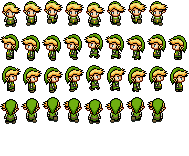
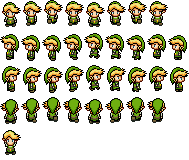
Chests!
• Added chest component
• Chest component is extensible to make chests facing in 4 directions;
currently only 1 facing is available however.
• Chests can give a # of rupees
• Chests can add an item to inventory
• Chests have a noise they make and a notification they display
• The item in the chest is held aloft
• New sprite frame for getting a new item
• Added a couple test chests to the world

(Note: chests reset per screen, just as bushes and monsters. This will
NOT be final functionality.)

diff --git a/includes/general.js b/includes/general.js
@@ -2,7 +2,7 @@
 /* GLOBAL VARS */
 var current_scene; var scene_name; var tile_theme;
 var facing = 'down'; var dir = {up: false, down: false, left: false, right: false};
-var in_inventory = false; var dialog; var interlocutor = false; var talking = false; var NPCname;
+var in_inventory = false; var dialog; var interlocutor = false; var talking = false; var itemGet = false; var NPCname;
 var potent = true; var swinging = false; var falling = false; var current_hole; 
 var pushedblock; var pushing = 0; var speed = 4;
 var monsters_on_screen = 0; var unlock_by_killing = false;
@@ -13,11 +13,11 @@ var max_hp = 66; var current_hp = 66;
 /* INVENTORY VARS */
 var coins = 0; var bombs = 0; var keys = 0;
 var weapon = 'Wooden Sword'; 
-var weapons_carried = ['Wooden Sword', 'Longspear', 'Longspear', 'Longspear', 'Longspear', 'Longspear'];
+var weapons_carried = ['Wooden Sword'];
 var secondary = ''; 
-var secondaries_carried = ['Boomerang', 'Shield', 'Boomerang', 'Boomerang'];
+var secondaries_carried = ['Boomerang'];
 var armor = ''; 
-var outfits_carried = ['Wedding Dress'];
+var outfits_carried = [];
 var accessory = ''; 
 var accessories_carried = ['Blue Ring', 'Blue Ring'];
 
@@ -27,7 +27,8 @@ var item_description = {
     "Boomerang": "Stun enemies or nab items at range!",
     "Shield": "Blocks attacks aimed at your front.",
     "Wedding Dress": "You don't like it, but it's the only outfit you've got.",
-    "Blue Ring": "This magical band halves incoming damage."
+    "Blue Ring": "This magical band halves incoming damage.", 
+    "Rupees": "Don't spend them all at once, okay?"
     };
 
 // ~~~~~
@@ -85,7 +86,7 @@ var sidebar_base = "<div id='life'><div id='life-gray' class='line1'></div><div 
             "<fieldset id='armor' class='margin-right'><legend>Armor<legend><span class='slot'></span></fieldset>" +
             "<fieldset id='accessory'><legend>Misc<legend><span class='slot'></span></fieldset> " +
             "<div id='meta'>" +
-            "<img src='assets/coin-single.png' class='coin' /><span id='coins'></span>" +
+            "<img src='assets/coin-single.png' class='coin' /><span id='coins'>0</span>" +
             "</div>" +
             "<div id='minimap'></div>";
 
@@ -246,9 +247,9 @@ function monster(rawr, x, y, scene) {
     
 // places props and obstacles
 function prop(type, x, y, scene) {
-    Crafty.e(type).at(x, y);
     if(typeof(scene)==='undefined') scene = current_scene;
     scene.occupied[x][y] = true;
+    return Crafty.e(type).at(x, y);
     }
     
 // fills a rectangle with a certain prop
@@ -294,6 +295,10 @@ function interact(e) {
         else if(talking) {
             talking = false;
             dialog.destroy(); 
+            if(itemGet == true) {
+                Crafty('player').sprite(0,3); itemGet = false;
+                Crafty('Reward').destroy();
+                }
             resumeAll();
             Crafty.bind('KeyDown', (inventory));
             }
@@ -325,7 +330,58 @@ function torchBushes() {//console.log(Crafty('Bush'));
     dialogue('The crazy dude burned all the bushes.');
     }
 
+// opens chests!
+function openChest() {
+    if(facing==interlocutor.direction) {
+        var chest = interlocutor;       // get the chest's object
+        interlocutor = false;           // clear interlocutor to prevent spammability
+        chest.removeComponent('poi').addComponent('chest_open_'+chest.direction);    // prevent further opening || chest.direction is for extensibility
+        if(chest.type == "weapon") {
+            weapons_carried.push(chest.contents);
+            chestNotice(chest.contents, "weapon");
+            return;
+            }
+        if(chest.type == "secondary") {
+            secondaries_carried.push(chest.contents);
+            chestNotice(chest.contents, "secondary");
+            return;
+            }
+        if(chest.type == "armor") {
+            outfits_carried.push(chest.contents);
+            chestNotice(chest.contents, "armor");
+            return;
+            }
+        if(chest.type == "misc") {
+            accessories_carried.push(chest.contents);
+            chestNotice(chest.contents, "misc");
+            return;
+            }
+        if(chest.type == "rupee") {
+            getCoins(chest.value);
+            chestNotice(chest.contents, "rupee", chest.value);
+            return;
+            }
+        console.log(chest.contents);
+        return;
+        }
+    return false;
+    }
 
+function chestNotice(contents, type, value) {
+    Crafty.audio.play('chest');     // plays chest sound
+    Crafty('player').sprite(0, 4).attr({w: 36, h: 40}).collision([4,4], [32, 4], [32,36], [4,36]);  // item get pose
+    // create notificaion text
+    var chestNotification = "You found ";
+    if(value) {chestNotification += value+' ';} else {chestNotification += "the ";}
+    chestNotification += contents+"! "+item_description[contents];
+    if(type=="weapon"||type=="secondary"||type=="armor"||type=="misc") {
+        chestNotification += " <br /><br />You can equip this item from your inventory by pressing TAB.";
+        }
+    itemGet = true;                     // allows the dialogue closing trigger to work best
+    dialogue(chestNotification);        // creates notification
+    Crafty.e('Reward').attr({x: Crafty('player').x-11, y: Crafty('player').y-58});  // displays reward shining above head
+    $(".Reward").append('<img src="assets/inventory/'+contents+'-inv.png" />');
+    }
 
 // ~~~~~
 // ~~~~~

diff --git a/includes/scenes.js b/includes/scenes.js
@@ -13,6 +13,8 @@ Crafty.scene('Game', function() {
     this.occupied[5][5] = true; // occupy player's initial position
  
     tile('Grass', 0, 0); tile('Grass', 1, 0); tile('Grass', 2, 0); tile('Grass', 3, 0); tile('Grass', 4, 0); tile('Grass', 5, 0); tile('Grass', 6, 0); tile('Grass', 7, 0); tile('Grass', 8, 0); tile('Grass', 9, 0); tile('Grass', 10, 0); tile('Grass', 11, 0); tile('Grass', 12, 0); tile('Grass', 0, 1); tile('Grass', 1, 1); tile('Grass', 2, 1); tile('Grass', 3, 1); tile('Grass', 4, 1); prop('Bush', 4, 1); tile('Grass', 5, 1); tile('Grass', 6, 1); tile('Grass', 7, 1); tile('Grass', 8, 1); prop('Bush', 8, 1); tile('Grass', 9, 1); tile('Grass', 10, 1); tile('Grass', 11, 1); tile('Grass', 12, 1); tile('Grass', 0, 2); tile('Grass', 1, 2); tile('Grass', 2, 2); tile('Grass', 3, 2); tile('Grass', 4, 2); tile('Grass', 5, 2); tile('Grass', 6, 2); prop('Bush', 6, 2); tile('Grass', 7, 2); tile('Grass', 8, 2); prop('Bush', 8, 2); tile('Grass', 9, 2); tile('Grass', 10, 2); prop('Bush', 10, 2); tile('Grass', 11, 2); tile('Grass', 12, 2); tile('Grass', 0, 3); tile('Grass', 1, 3); tile('Grass', 2, 3); tile('Grass', 3, 3); tile('Grass', 4, 3); tile('Grass', 5, 3); tile('Grass', 6, 3); prop('Bush', 6, 3); tile('Grass', 7, 3); tile('Grass', 8, 3); tile('Grass', 9, 3); tile('Grass', 10, 3); prop('Bush', 10, 3); tile('Grass', 11, 3); tile('Grass', 12, 3); tile('Grass', 0, 4); tile('Grass', 1, 4); tile('Grass', 2, 4); tile('Grass', 3, 4); tile('Grass', 4, 4); tile('Grass', 5, 4); tile('Grass', 6, 4); tile('Grass', 7, 4); prop('Bush', 7, 4); tile('Grass', 8, 4); prop('Bush', 8, 4); tile('Grass', 9, 4); prop('Bush', 9, 4); tile('Grass', 10, 4); prop('Bush', 10, 4); tile('Grass', 11, 4); tile('Grass', 12, 4); tile('Grass', 0, 5); tile('Grass', 1, 5); tile('Grass', 2, 5); tile('Grass', 3, 5); tile('Grass', 4, 5); tile('Grass', 5, 5); tile('Grass', 6, 5); tile('Grass', 7, 5); prop('Bush', 7, 5); tile('Grass', 8, 5); tile('Grass', 9, 5); tile('Grass', 10, 5); tile('Grass', 11, 5); tile('Grass', 12, 5); tile('Grass', 0, 6); tile('Grass', 1, 6); tile('Grass', 2, 6); tile('Grass', 3, 6); tile('Grass', 4, 6); tile('Grass', 5, 6); tile('Grass', 6, 6); tile('Grass', 7, 6); prop('Bush', 7, 6); tile('Grass', 8, 6); tile('Grass', 9, 6); prop('Bush', 9, 6); tile('Grass', 10, 6); prop('Bush', 10, 6); tile('Grass', 11, 6); prop('Bush', 11, 6); tile('Grass', 12, 6); tile('Grass', 0, 7); tile('Grass', 1, 7); tile('Grass', 2, 7); tile('Grass', 3, 7); tile('Grass', 4, 7); tile('Grass', 5, 7); tile('Grass', 6, 7); tile('Grass', 7, 7); prop('Bush', 7, 7); tile('Grass', 8, 7); tile('Grass', 9, 7); tile('Grass', 10, 7); tile('Grass', 11, 7); tile('Grass', 12, 7); tile('Grass', 0, 8); tile('Grass', 1, 8); tile('Grass', 2, 8); tile('Grass', 3, 8); tile('Grass', 4, 8); tile('Grass', 5, 8); tile('Grass', 6, 8); tile('Grass', 7, 8); prop('Bush', 7, 8); tile('Grass', 8, 8); prop('Bush', 8, 8); tile('Grass', 9, 8); prop('Bush', 9, 8); tile('Grass', 10, 8); prop('Bush', 10, 8); tile('Grass', 11, 8); tile('Grass', 12, 8); tile('Grass', 0, 9); tile('Grass', 1, 9); prop('Bush', 1, 9); tile('Grass', 2, 9); prop('Bush', 2, 9); tile('Grass', 3, 9); prop('Bush', 3, 9); tile('Grass', 4, 9); tile('Grass', 5, 9); tile('Grass', 6, 9); tile('Grass', 7, 9); prop('Bush', 7, 9); tile('Grass', 8, 9); tile('Grass', 9, 9); tile('Grass', 10, 9); tile('Grass', 11, 9); tile('Grass', 12, 9); tile('Grass', 0, 10); tile('Grass', 1, 10); prop('Bush', 1, 10); prop('Rock', 2, 10); tile('Grass', 3, 10); prop('Bush', 3, 10); tile('Grass', 4, 10); tile('Grass', 5, 10); tile('Grass', 6, 10); tile('Grass', 7, 10); prop('Bush', 7, 10); tile('Grass', 8, 10); tile('Grass', 9, 10); prop('Bush', 9, 10); tile('Grass', 10, 10); prop('Bush', 10, 10); tile('Grass', 11, 10); prop('Bush', 11, 10); tile('Grass', 12, 10); tile('Grass', 0, 11); tile('Grass', 1, 11); prop('Bush', 1, 11); tile('Grass', 2, 11); prop('Bush', 2, 11); tile('Grass', 3, 11); prop('Bush', 3, 11); tile('Grass', 4, 11); tile('Grass', 5, 11); tile('Grass', 6, 11); tile('Grass', 7, 11); prop('Bush', 7, 11); tile('Grass', 8, 11); tile('Grass', 9, 11); tile('Grass', 10, 11); tile('Grass', 11, 11); tile('Grass', 12, 11); tile('Grass', 0, 12); tile('Grass', 1, 12); tile('Grass', 2, 12); tile('Grass', 3, 12); tile('Grass', 4, 12); tile('Grass', 5, 12); tile('Grass', 6, 12); tile('Grass', 7, 12); tile('Grass', 8, 12); tile('Grass', 9, 12); tile('Grass', 10, 12); tile('Grass', 11, 12); tile('Grass', 12, 12);
+    
+    prop('Chest', 3, 4).attr({contents: "Longspear", type: "weapon"});
   
   // OLD MAN
   NPCname = "Old Man";
@@ -53,6 +55,11 @@ Crafty.scene('north1', function() {
  
     edgePop('Tree');
     tile('TreeWalkable', 12, 2);
+    
+    prop('Chest', 1, 1).attr({contents: "Wedding Dress", type: "armor"});
+    prop('Chest', 2, 1).attr({contents: "Shield", type: "secondary"});
+    prop('Chest', 3, 1).attr({contents: "Rupees", value: 50, type: "rupee"});
+    prop('Chest', 4, 1).attr({contents: "Rupees", value: 20, type: "rupee"});
      
 });
 

diff --git a/includes/loading.js b/includes/loading.js
@@ -9,12 +9,18 @@ Crafty.scene('Loading', function(){
         .text('<h3>Loading</h3><div id="bar"><div id="fill"></div></div><div id="loadtext"></div>');
  
     var toLoad = [];
-    toLoad.push('media/opening.ogg', "media/opening.mp3", "media/LOZ_Get_Rupee.mp3", "media/rupee.mp3", "media/secret.mp3", "media/gulp.wav", 'assets/tree-1.png', 'assets/bush-1.png', 'assets/bush-dead.png', 'assets/grass-1.png', 'assets/rock.png', 'assets/character-narrow.png'/*, 'assets/character-hit.png'*/, 'assets/portraits/Old Man.png', 'assets/portraits/Fisherman.png', 'assets/portraits/Groundskeeper.png', 'includes/images/mochaGrunge.png', 'includes/images/lightGrunge.png', 'assets/RPGTiles-40.png', 'assets/cactus.png', 'assets/slimes-5.png', 'assets/slimes-blue.png', 'assets/octorok-40.png', 'assets/octorok-blue.png', 'assets/octorok-gold.png', 'assets/projectile-rock.png', 'assets/projectile-rock-big.png', 'assets/longspear.png', 'assets/wooden-sword.png', 'assets/wooden-sword-2.png', 'assets/hole-1.png', 'assets/heart-container-1.png', 'assets/inventory/Wooden Sword-inv.png', 'assets/inventory/Longspear-inv.png', 'assets/fire.png', 'assets/fire-tile.png', 'assets/coins.png', 'assets/coin-single.png', 'assets/remains.png',
-    'assets/refill-heart.png', 'assets/refill-half.png', 
+    toLoad.push('media/opening.ogg', "media/opening.mp3", 
+    "media/LOZ_Get_Rupee.mp3", "media/rupee.mp3", "media/secret.mp3", "media/gulp.wav", "media/chest.wav", 
     
+    'assets/tree-1.png', 'assets/bush-1.png', 'assets/bush-dead.png', 'assets/grass-1.png', 'assets/rock.png', 'assets/character-narrow.png'/*, 'assets/character-hit.png'*/, 'assets/portraits/Old Man.png', 'assets/portraits/Fisherman.png', 'assets/portraits/Groundskeeper.png', 'includes/images/mochaGrunge.png', 'includes/images/lightGrunge.png', 'assets/RPGTiles-40.png', 'assets/cactus.png', 'assets/slimes-5.png', 'assets/slimes-blue.png', 'assets/octorok-40.png', 'assets/octorok-blue.png', 'assets/octorok-gold.png', 'assets/projectile-rock.png', 'assets/projectile-rock-big.png', 'assets/longspear.png', 'assets/wooden-sword.png', 'assets/wooden-sword-2.png', 'assets/hole-1.png', 'assets/heart-container-1.png',  'assets/fire.png', 'assets/fire-tile.png', 'assets/coins.png', 'assets/coin-single.png', 'assets/remains.png',
+    'assets/refill-heart.png', 'assets/refill-half.png', 
+    'assets/chest.png',
+    
+    'assets/inventory/Wooden Sword-inv.png', 'assets/inventory/Longspear-inv.png',
     'assets/inventory/Boomerang-inv.png', 'assets/inventory/Shield-inv.png', 
     'assets/inventory/Wedding Dress-inv.png', 'assets/inventory/Platemail-inv.png', 
-    'assets/inventory/Blue Ring-inv.png'
+    'assets/inventory/Blue Ring-inv.png',
+    'assets/inventory/Rupees-inv.png'
     );
  
   // Load our sprite map image
@@ -48,6 +54,10 @@ Crafty.scene('Loading', function(){
             });
         Crafty.sprite(24, "assets/projectile-rock-big.png", {
             projectile_rock_big: [0, 0]
+            });
+        Crafty.sprite(32, "assets/chest.png", {
+            chest_closed_up: [0, 0],
+            chest_open_up: [1, 0]
             });
         Crafty.sprite(8, 14, "assets/coins.png", {
             rupeeG1: [0, 0], rupeeG2: [1, 0], rupeeG3: [2, 0],
@@ -94,7 +104,8 @@ Crafty.scene('Loading', function(){
             chardown: [0, 0],
             charleft: [0, 1],
             charright: [0, 2],
-            charup: [0, 3]
+            charup: [0, 3],
+            charGet: [0, 4]
             });
         Crafty.sprite(40, "assets/slimes-5.png", {
             slimedown: [0, 2],
@@ -167,7 +178,8 @@ Crafty.scene('Loading', function(){
         Crafty.audio.add({
               rupee: ['media/rupee.mp3', 'media/LOZ_Get_Rupee.wav'],    // coin get
               secret: ['media/secret.mp3'],                             // find secret
-              gulp: ['media/gulp.wav']                                  // heart refill get
+              gulp: ['media/gulp.wav'],                                  // heart refill get
+              chest: ['media/chest.wav']                                  // open chest
             });
             
         //$('#console span').text(''); // Clear the console.

diff --git a/includes/components/inventory.js b/includes/components/inventory.js
@@ -94,12 +94,13 @@ function displayArsenal() {
     var h = 0; var j = 1; // initialize grid variables for inventory
     
     // WEAPONS
-    $('.inventory').append('<h3>Weapons</h3>');
-    weapons_carried.forEach(function(weapon) {
-        h++;
-        $('.inventory').append('<fieldset class="equippable" data-itemType="weapon" data-x="'+h+'" data-y="'+j+'" data-item="'+weapon+'"><img src="assets/inventory/'+weapon+'-inv.png" /></fieldset>');
-        });
-        
+    if(weapons_carried[0]) {
+        $('.inventory').append('<h3>Weapons</h3>');
+        weapons_carried.forEach(function(weapon) {
+            h++;
+            $('.inventory').append('<fieldset class="equippable" data-itemType="weapon" data-x="'+h+'" data-y="'+j+'" data-item="'+weapon+'"><img src="assets/inventory/'+weapon+'-inv.png" /></fieldset>');
+            });
+        }
     // BTN 2
     if(secondaries_carried[0]) {    // don't show category if none exist
         $('.inventory').append('<h3>Btn 2</h3>');

diff --git a/includes/components/drops.js b/includes/components/drops.js
@@ -47,3 +47,18 @@ Crafty.c('RupeeR', {
         .collision([8, 0], [16, 8], [16, 20], [8, 28], [0, 20], [0, 8]);
         }
     });
+    
+Crafty.c('Chest', {
+    init: function() {
+        this.requires('Actor, Solid, SpriteAnimation, Collision, chest_closed_up, poi')
+        .attr({h: 32, w: 32, overx: 4, overy: 4, direction: "up", interact:"openChest(interlocutor)"})
+        .collision([0, 0], [32, 0], [32, 16], [0, 16])  // allow the hero to walk 'onto' the chest a bit
+        ;
+        }
+    });
+    
+Crafty.c('Reward', {
+    init: function() {
+        this.requires('2D, DOM').attr({w: 40, h: 40});
+        }
+    });

diff --git a/includes/style.css b/includes/style.css
@@ -121,3 +121,11 @@ legend {color: #fff; font-size: 8px;}
 #inventory {
     height: 480px; width: 480px; margin-bottom: -520px; margin-right: -520px; position: absolute; z-index: 5;
     display: none; }
+    
+.Reward {
+    vertical-align:top; border-radius: 5px;
+    border: 3px solid #ffd43d; margin: 0px 10px 10px 0;
+    width: 40px; height: 40px; padding: 6px;
+    display: inline-block; text-align: center; background: #000;
+    box-shadow: 0 0 20px rgba(255,255,0,1), 0 0 5px rgba(255,255,255,1);
+    }
